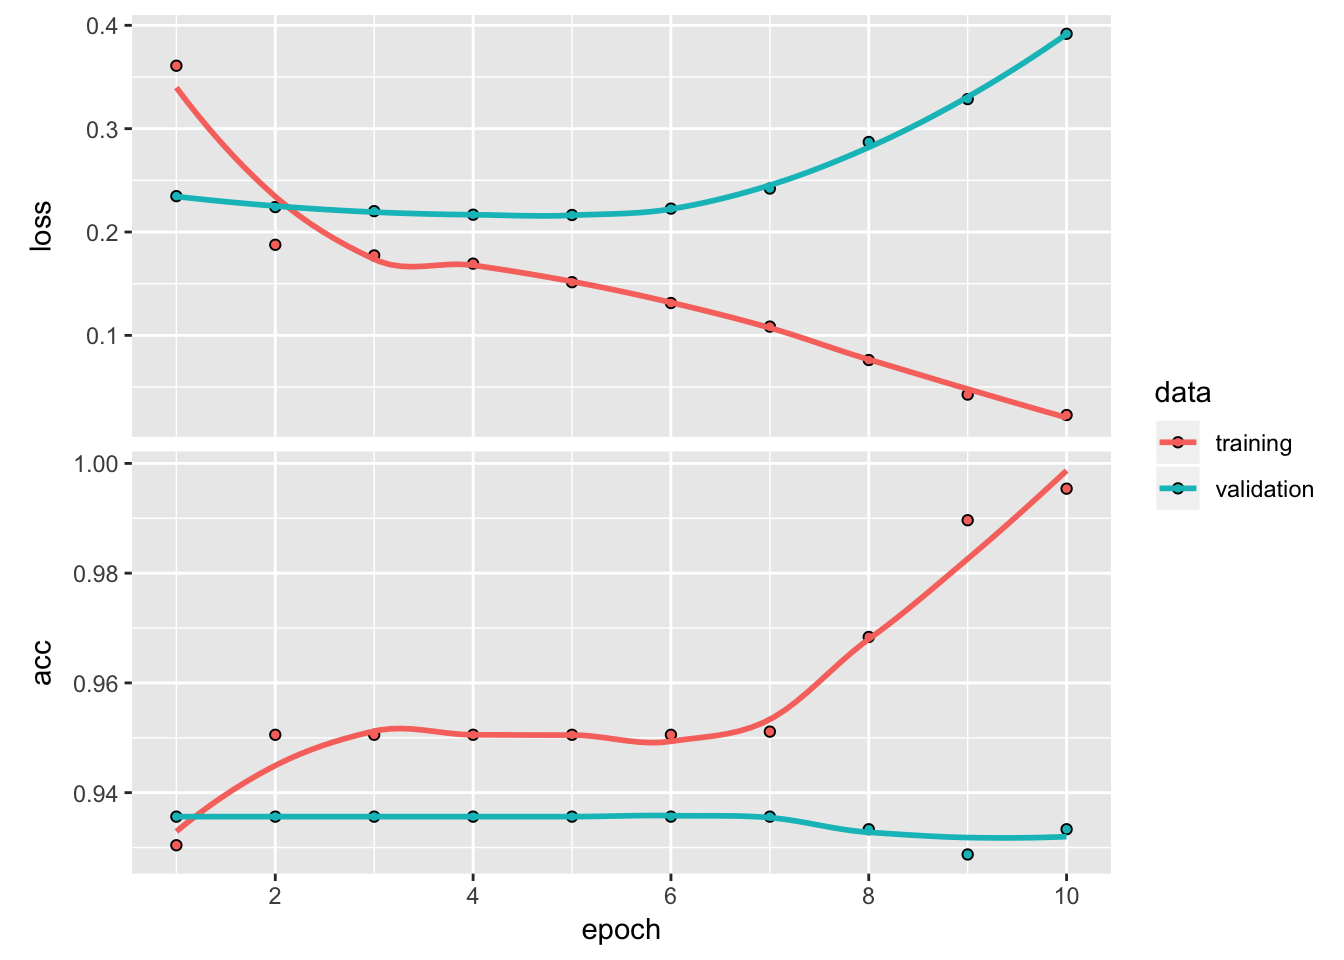
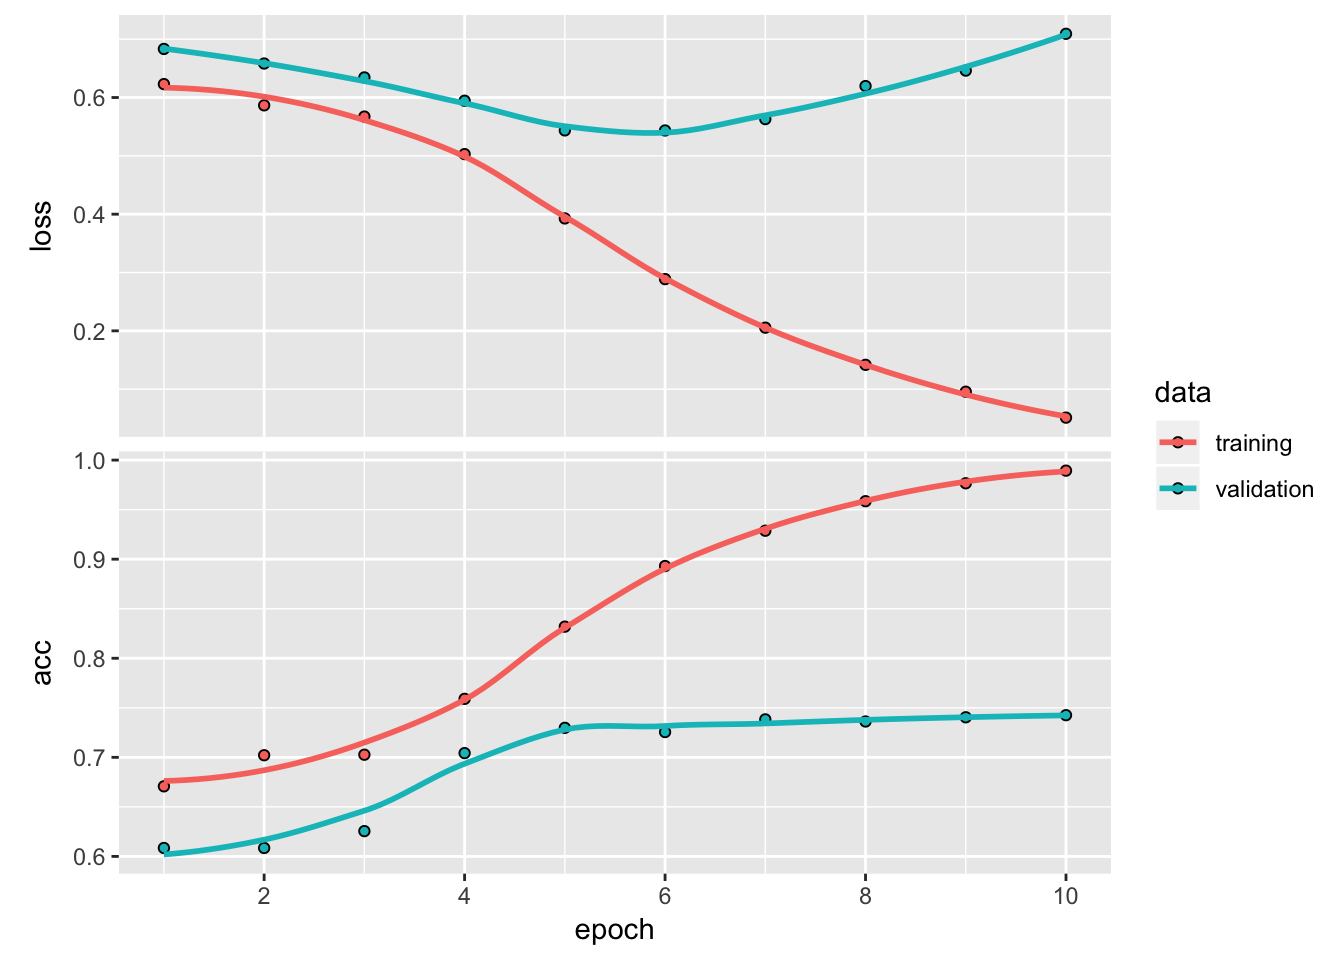
2

diff --git a/content/post/2019-04-26-grand-floridian-hotel-reviews.html b/content/post/2019-04-26-grand-floridian-hotel-reviews.html
@@ -278,13 +278,8 @@ head(summary_pos,15) %&gt;% ggplot(aes(x=reviews,y=average_rat))+ geom_point() +
   ylab(&quot;Average Rating&quot;)</code></pre>
 <p><img src="/post/2019-04-26-grand-floridian-hotel-reviews_files/figure-html/unnamed-chunk-14-1.png" width="672" />
 Similarly, many of these words are what we would expect in positive reviews–though “kitchen”,“pianist”,and “orchestra” are notable.</p>
-<p>##Text Classification
-Now, we will use keras to build a deep-learning model that classifies whether or not reviews are 5 star based on their text (i.e. the words used).</p>
-<pre class="r"><code>##Add response variable (pos/neg), remove rating =3
-# rdf_bin&lt;-rdf %&gt;% mutate(review_num = row_number()) %&gt;% filter(!rating==3) %&gt;%
-#    mutate(positive = case_when(rating == &quot;1&quot;|rating ==&quot;2&quot; ~ 0,TRUE~1)) %&gt;% select(-rating,-stay_date)
-# 
-# rdf_bin %&gt;% ggplot(aes(x=positive))+geom_bar()</code></pre>
+<p>##Text Classification</p>
+<p>Now, we will use keras to build a deep-learning model that classifies whether or not reviews are 5 star based on their text (i.e. the words used).</p>
 <pre class="r"><code>rdf_bin&lt;-rdf %&gt;% mutate(review_num = row_number()) %&gt;% 
    mutate(five_star = case_when(rating!=5~ 0,TRUE~1)) %&gt;% select(-rating,-stay_date)
 
@@ -292,7 +287,7 @@ rdf_bin %&gt;% ggplot(aes(x=five_star)) +
           geom_bar(aes(y = ..prop.., fill = factor(..x..)), stat=&quot;count&quot;) + 
           scale_y_continuous(labels=scales::percent) + scale_x_discrete()+
           ylab(&quot;percent&quot;)</code></pre>
-<p><img src="/post/2019-04-26-grand-floridian-hotel-reviews_files/figure-html/unnamed-chunk-16-1.png" width="672" />
+<p><img src="/post/2019-04-26-grand-floridian-hotel-reviews_files/figure-html/unnamed-chunk-15-1.png" width="672" />
 Almost 70% of the reviews are five star. This will be helpful as we evaluate model performance.</p>
 <p>We tokenize the review text into a sequence of integers where each word will correspond to an integer. To get the 1000 most frequent words in our text, we set num_words to 1000.</p>
 <pre class="r"><code># get text of review
@@ -368,11 +363,13 @@ model %&gt;% summary()</code></pre>
 ## Trainable params: 69,365
 ## Non-trainable params: 0
 ## ___________________________________________________________________________</code></pre>
-<p>The model is built by sequentially stacking layers:
-1. The embedding layer input dimension is the vocab size. It looks up the embedding vector for each word-index and adds a dimension to the output.
-2. 1D convolution layer using kernel size 5: recognize local patterns in sentence to learn words length &lt;5, can recognize in later context
-3. Additional dense layer with relu activation
-4. The final layer uses the sigmoid activation function to output a single node: a probability score between 0 and 1 indicating how likely a review is to be positive.</p>
+<p>The model is built by sequentially stacking layers:</p>
+<ol style="list-style-type: decimal">
+<li><p>The embedding layer input dimension is the vocab size. It looks up the embedding vector for each word-index and adds a dimension to the output.</p></li>
+<li><p>1D convolution layer using kernel size 5: recognize local patterns in sentence to learn words length &lt;5, can recognize in later context</p></li>
+<li><p>Additional dense layer with relu activation</p></li>
+<li><p>The final layer uses the sigmoid activation function to output a single node: a probability score between 0 and 1 indicating how likely a review is to be positive.</p></li>
+</ol>
 </div>
 <div id="choosing-loss-function-optimizer" class="section level4">
 <h4>Choosing Loss Function &amp; Optimizer</h4>
@@ -405,13 +402,13 @@ str(hist)</code></pre>
 ##   ..$ validation_steps  : NULL
 ##   ..$ validation_samples: int 470
 ##  $ metrics:List of 4
-##   ..$ val_loss: num [1:10] 0.67 0.666 0.634 0.562 0.615 ...
-##   ..$ val_acc : num [1:10] 0.609 0.609 0.619 0.713 0.694 ...
-##   ..$ loss    : num [1:10] 0.604 0.581 0.548 0.465 0.356 ...
-##   ..$ acc     : num [1:10] 0.702 0.702 0.712 0.799 0.855 ...
+##   ..$ val_loss: num [1:10] 0.683 0.658 0.634 0.594 0.544 ...
+##   ..$ val_acc : num [1:10] 0.609 0.609 0.626 0.704 0.73 ...
+##   ..$ loss    : num [1:10] 0.623 0.587 0.567 0.503 0.393 ...
+##   ..$ acc     : num [1:10] 0.671 0.702 0.703 0.759 0.832 ...
 ##  - attr(*, &quot;class&quot;)= chr &quot;keras_training_history&quot;</code></pre>
 <pre class="r"><code>plot(hist)</code></pre>
-<p><img src="/post/2019-04-26-grand-floridian-hotel-reviews_files/figure-html/unnamed-chunk-23-1.png" width="672" />
+<p><img src="/post/2019-04-26-grand-floridian-hotel-reviews_files/figure-html/unnamed-chunk-22-1.png" width="672" />
 The training loss decreases with each epoch, while the accuracy increases. However, the validation data does not show this same trend, which indicates that we are overfitting to the training data. The right number of epochs appears to be 6. Our accuracy is not very high using only the 1000 most common words and cutting reviews off at 100 words. Let’s see what happens if we increase this.</p>
 <pre class="r"><code>#increase num words for embedding
 max_features&lt;-5000
@@ -459,12 +456,12 @@ str(hist)</code></pre>
 ##   ..$ validation_steps  : NULL
 ##   ..$ validation_samples: int 470
 ##  $ metrics:List of 4
-##   ..$ val_loss: num [1:10] 0.674 0.664 0.624 0.594 0.538 ...
-##   ..$ val_acc : num [1:10] 0.609 0.609 0.662 0.694 0.738 ...
-##   ..$ loss    : num [1:10] 0.627 0.6 0.549 0.465 0.362 ...
-##   ..$ acc     : num [1:10] 0.689 0.702 0.717 0.773 0.848 ...
+##   ..$ val_loss: num [1:10] 0.674 0.647 0.631 0.571 0.541 ...
+##   ..$ val_acc : num [1:10] 0.609 0.619 0.647 0.709 0.74 ...
+##   ..$ loss    : num [1:10] 0.633 0.588 0.526 0.44 0.342 ...
+##   ..$ acc     : num [1:10] 0.667 0.703 0.738 0.799 0.852 ...
 ##  - attr(*, &quot;class&quot;)= chr &quot;keras_training_history&quot;</code></pre>
 <pre class="r"><code>plot(hist)</code></pre>
-<p><img src="/post/2019-04-26-grand-floridian-hotel-reviews_files/figure-html/unnamed-chunk-26-1.png" width="672" /></p>
+<p><img src="/post/2019-04-26-grand-floridian-hotel-reviews_files/figure-html/unnamed-chunk-25-1.png" width="672" /></p>
 </div>
 </div>
